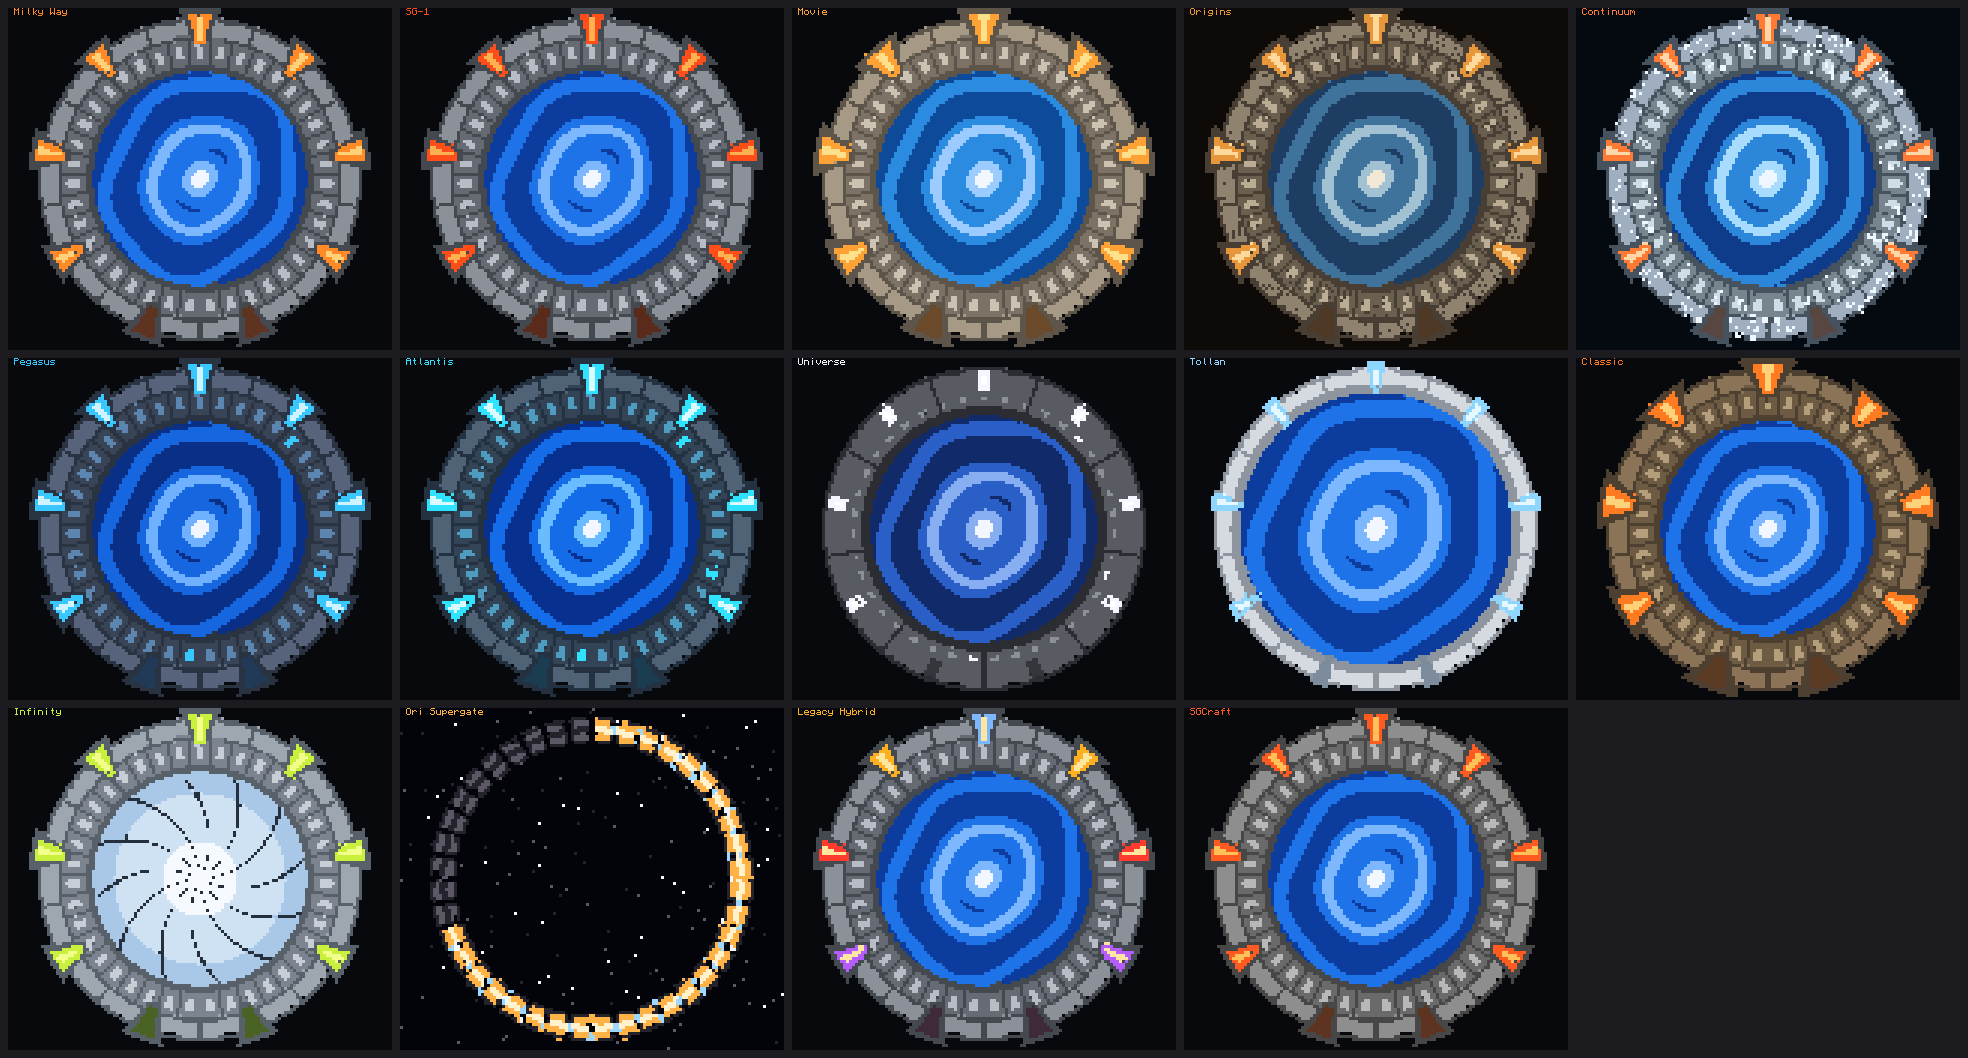
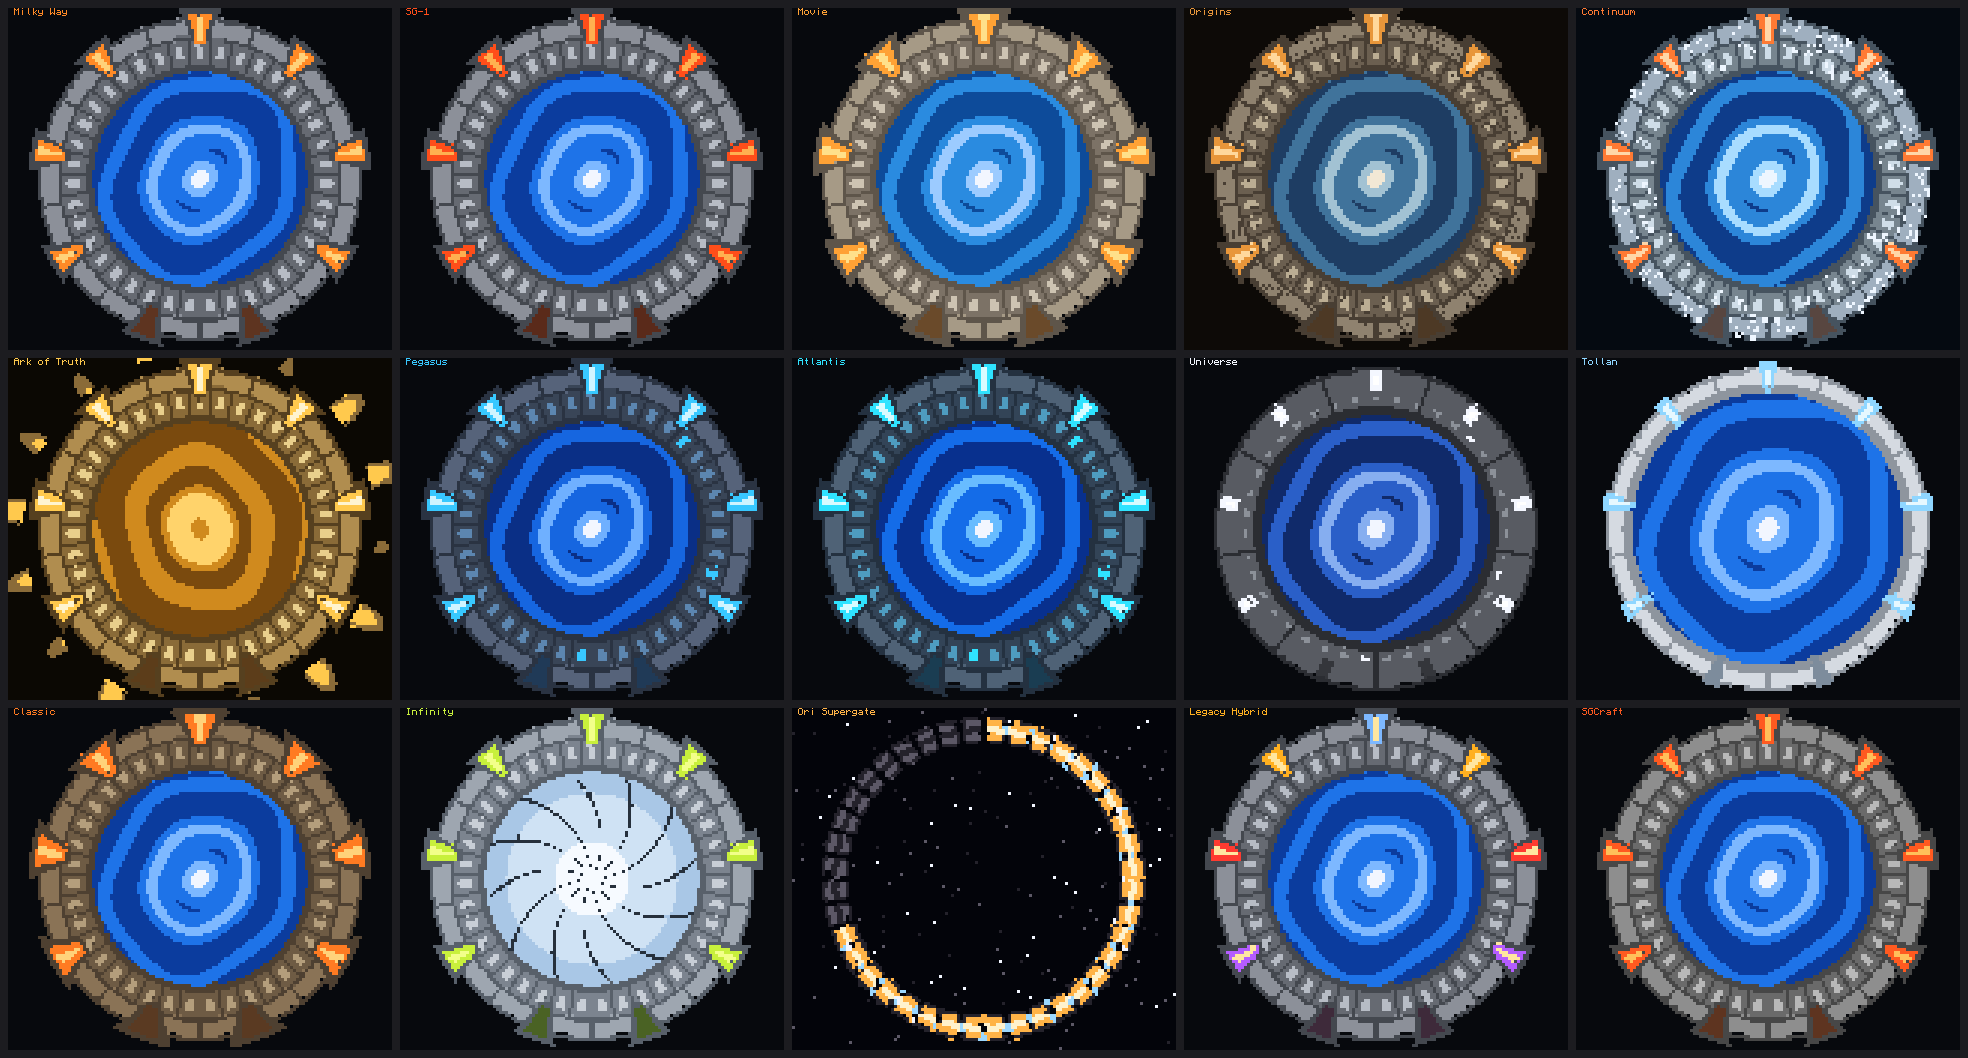
Add the Stargate: The Ark of Truth gate look
- New "Ark of Truth" style: an Ancient gate in aged gold with gold
  chevrons that burn white-hot when lit, a bronze iris, and a wormhole
  that is a pool of the Ark's golden light. While it is open, slow
  turning spokes of light shine out around the ring (new ray effect
  drawn in a halo just outside the gate). Title "ARK OF TRUTH".
- Picked automatically for variant names with the word "ark" or with
  "truth" (e.g. ark_of_truth; not "dark" or "sparkle").
- Personal Dialer: Ark of Truth theme with a golden wormhole picture.
- Style sheet now shows all 15 looks; READMEs updated.

Claude-Session: https://claude.ai/code/session_01YFRZ9zopeNTMwQHBf6EiNf

diff --git a/PersonalDialer/README.md b/PersonalDialer/README.md
@@ -27,7 +27,7 @@ Written for Stargate Journey on Minecraft 1.20.1 with CC: Tweaked. Also works wi
 - **Incoming wormholes**: shows the caller by name if the address is in your book. The *Add* dialog is pre-filled with the caller's address.
 - **Last result marker**: green after a successful dial, red after a failed one.
 - **Gate info panel**: gate type, local address, energy, iris open/close, colour theme and dial mode.
-- **Colour themes**: Auto (follows the gate type and its variant), Milky Way, SG-1, Movie, Origins (the weathered 1939 Giza gate), Continuum (the frozen Arctic gate), Pegasus, Atlantis, Universe, Tollan, Classic, Infinity, Ori Supergate (the gate picture shows 40 separate segments that light up as it dials), Legacy Hybrid (amber, red and purple chevrons with a blue master chevron) and SGCraft. Auto picks SG-1, Movie or Atlantis from the gate's Stargate Journey variant, and matches resource pack variants by name ("lantea", "infinity", "hybrid", "legacy").
+- **Colour themes**: Auto (follows the gate type and its variant), Milky Way, SG-1, Movie, Origins (the weathered 1939 Giza gate), Continuum (the frozen Arctic gate), Ark of Truth (a gold gate with a golden wormhole), Pegasus, Atlantis, Universe, Tollan, Classic, Infinity, Ori Supergate (the gate picture shows 40 separate segments that light up as it dials), Legacy Hybrid (amber, red and purple chevrons with a blue master chevron) and SGCraft. Auto picks SG-1, Movie or Atlantis from the gate's Stargate Journey variant, and matches resource pack variants by name ("lantea", "infinity", "hybrid", "legacy").
 - **Gate picture**: click the chevron bar (or Ctrl+G) to swap the list for a drawing of the gate: chevrons, symbol ring, the open wormhole and the iris. On wide monitors (80+ columns) the gate is always shown next to the list.
 - **Monitor mode**: runs on an advanced monitor. Touch to use it, or type on the computer.
 - **Cartouche import**: on first start, imports `1_cartouche.lua` from [Stargate Monitor](../StargateMonitor/) if it is in the same folder.

diff --git a/README.md b/README.md
@@ -36,7 +36,7 @@
 ![Personal Dialer image](./imgs/PersonalDialer.png)
 
 ## [Stargate Command: Gate Room and Network Hub](./StargateCommand/)
- - **Gate Room**: SGC style monitor with an animated gate in the look of its series (SG-1, Movie, Origins, Continuum, Atlantis/Lantea, Pegasus, Universe, Tollan, Classic, Infinity, Ori Supergate, Legacy Hybrid, SGCraft): turning ring, chevrons, kawoosh, iris, dialing computer panel and incoming wormhole alarm
+ - **Gate Room**: SGC style monitor with an animated gate in the look of its series (SG-1, Movie, Origins, Continuum, Ark of Truth, Atlantis/Lantea, Pegasus, Universe, Tollan, Classic, Infinity, Ori Supergate, Legacy Hybrid, SGCraft): turning ring, chevrons, kawoosh, iris, dialing computer panel and incoming wormhole alarm
  - **Network Hub**: touch screen of destination cards with portal colours and tabs, planned destinations for worlds you have not built yet
  - Works with Stargate Journey (1.20.1), SGCraft (Greg's original and the 1.12.2 SGCraft 2.3), Lantea: Stargates (0.7.7.0+) and Just Stargate Mod (1.20.1)
  - Shares its address book with the Personal Dialer; one installer for all three

diff --git a/StargateCommand/README.md b/StargateCommand/README.md
@@ -30,6 +30,7 @@ The look is picked from the gate type and its Stargate Journey variant. You can 
 | SG-1 | the `milky_way_sg-1` and `milky_way_promo` variants |
 | Movie | the `milky_way_movie` variant: sand coloured stone, big amber chevrons |
 | Continuum | variants with "continuum" or "arctic" in their name: the gate found frozen in the Arctic in Stargate: Continuum, frosted blue-grey stone flecked with ice, an icy horizon |
+| Ark of Truth | variants named with the word "ark" or "truth" (e.g. `ark_of_truth`): an Ancient gate in aged gold, white-hot gold chevrons, a golden wormhole whose light shines out in rays around the ring |
 | Origins | variants with "origins" or "1939" in their name: the Giza gate of Stargate Origins, weathered dusty stone, amber chevrons, a faded film-toned horizon |
 | Pegasus | Stargate Journey Pegasus gates: slate ring, the dialed symbols light up |
 | Atlantis | the `pegasus_atlantis` variant, and any variant with "lantea" in its name |
